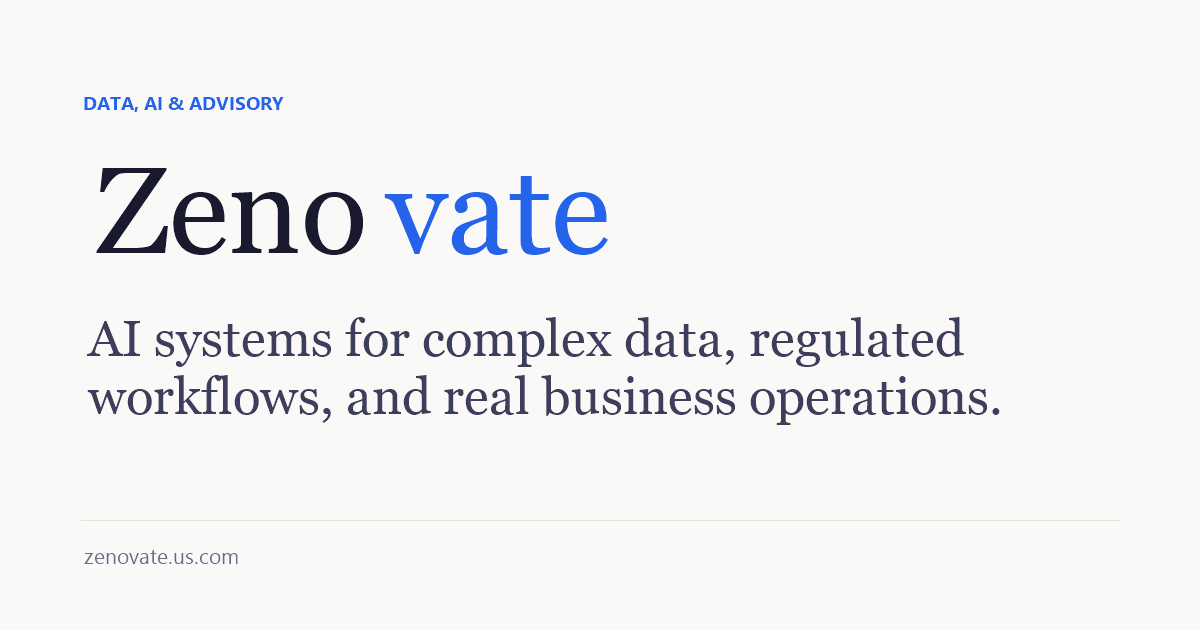
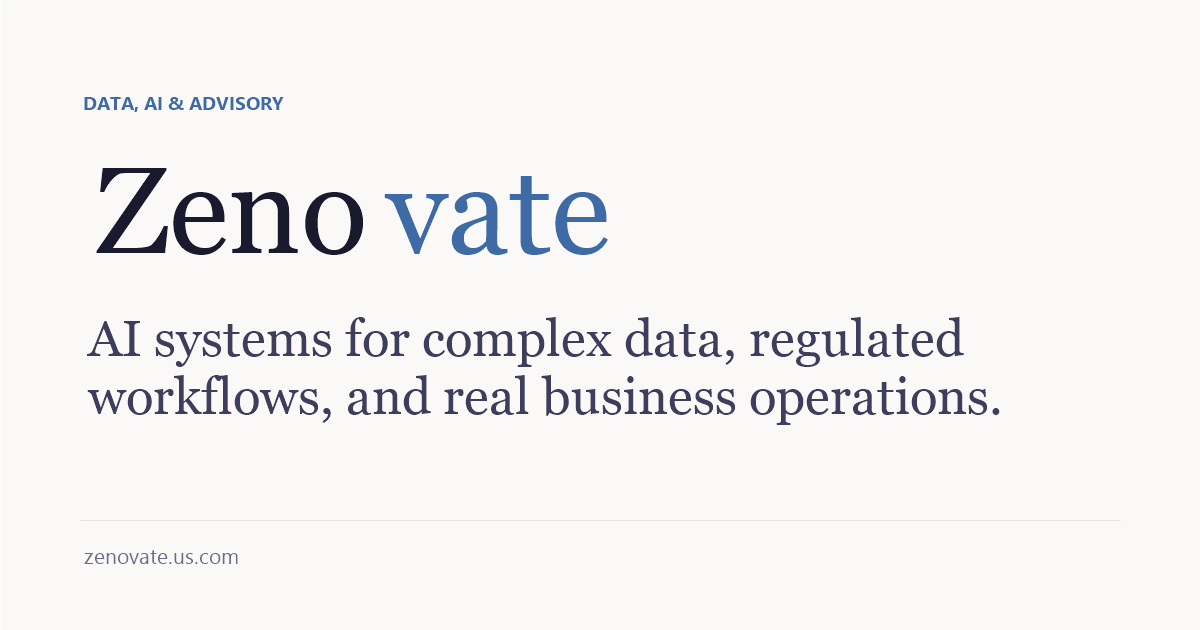
Refine accent palette: dusty blue + sage teal
- Tone --accent from saturated #2563eb to dusty #3e6aa6 (HSL 213/45)
- Tone --accent-deep #1e40af to #2c4f7c
- Tone --teal from #0d9488 to sage #5e8b85
- All inline rgba() updated to match
- Regenerate og:image preview-cover with new accent

Changed region(s): [[0.3083, 0.2714, 0.5242, 0.4222], [0.0617, 0.1508, 0.2467, 0.181]]

diff --git a/index.html b/index.html
@@ -26,11 +26,11 @@
     --ink-muted: #6b6b8a;
     --surface: #faf9f7;
     --surface-warm: #f3f1ed;
-    --accent: #2563eb;
-    --accent-deep: #1e40af;
-    --accent-glow: #3b82f6;
-    --teal: #0d9488;
-    --teal-light: #ccfbf1;
+    --accent: #3e6aa6;
+    --accent-deep: #2c4f7c;
+    --accent-glow: #5e85b4;
+    --teal: #5e8b85;
+    --teal-light: #dde8e6;
     --border: #e5e3df;
     --white: #ffffff;
     --font-display: 'Fraunces', Georgia, serif;
@@ -85,14 +85,14 @@
     content: '';
     position: absolute; top: -30%; right: -15%;
     width: 700px; height: 700px;
-    background: radial-gradient(circle, rgba(37, 99, 235, 0.04) 0%, transparent 70%);
+    background: radial-gradient(circle, rgba(62, 106, 166, 0.04) 0%, transparent 70%);
     border-radius: 50%; pointer-events: none;
   }
   .hero::after {
     content: '';
     position: absolute; bottom: -20%; left: -10%;
     width: 500px; height: 500px;
-    background: radial-gradient(circle, rgba(13, 148, 136, 0.03) 0%, transparent 70%);
+    background: radial-gradient(circle, rgba(94, 139, 133, 0.03) 0%, transparent 70%);
     border-radius: 50%; pointer-events: none;
   }
   .hero-content {
@@ -104,7 +104,7 @@
     font-size: 0.78rem; font-weight: 600;
     text-transform: uppercase; letter-spacing: 0.14em;
     color: var(--accent);
-    background: rgba(37, 99, 235, 0.07);
+    background: rgba(62, 106, 166, 0.07);
     padding: 0.4rem 1rem;
     border-radius: 100px;
     margin-bottom: 1.5rem;
@@ -227,7 +227,7 @@
   }
   .practice-card:hover {
     border-color: var(--accent-glow);
-    box-shadow: 0 4px 24px rgba(37, 99, 235, 0.08);
+    box-shadow: 0 4px 24px rgba(62, 106, 166, 0.08);
   }
   .practice-num {
     font-family: var(--font-display);
@@ -275,7 +275,7 @@
   }
   .work-card:hover {
     border-color: var(--accent-glow);
-    box-shadow: 0 4px 24px rgba(37, 99, 235, 0.06);
+    box-shadow: 0 4px 24px rgba(62, 106, 166, 0.06);
   }
   .work-tag {
     font-size: 0.72rem;
@@ -333,7 +333,7 @@
   .pill:hover {
     border-color: var(--accent);
     color: var(--accent);
-    background: rgba(37, 99, 235, 0.04);
+    background: rgba(62, 106, 166, 0.04);
   }
 
   /* CONTACT */
